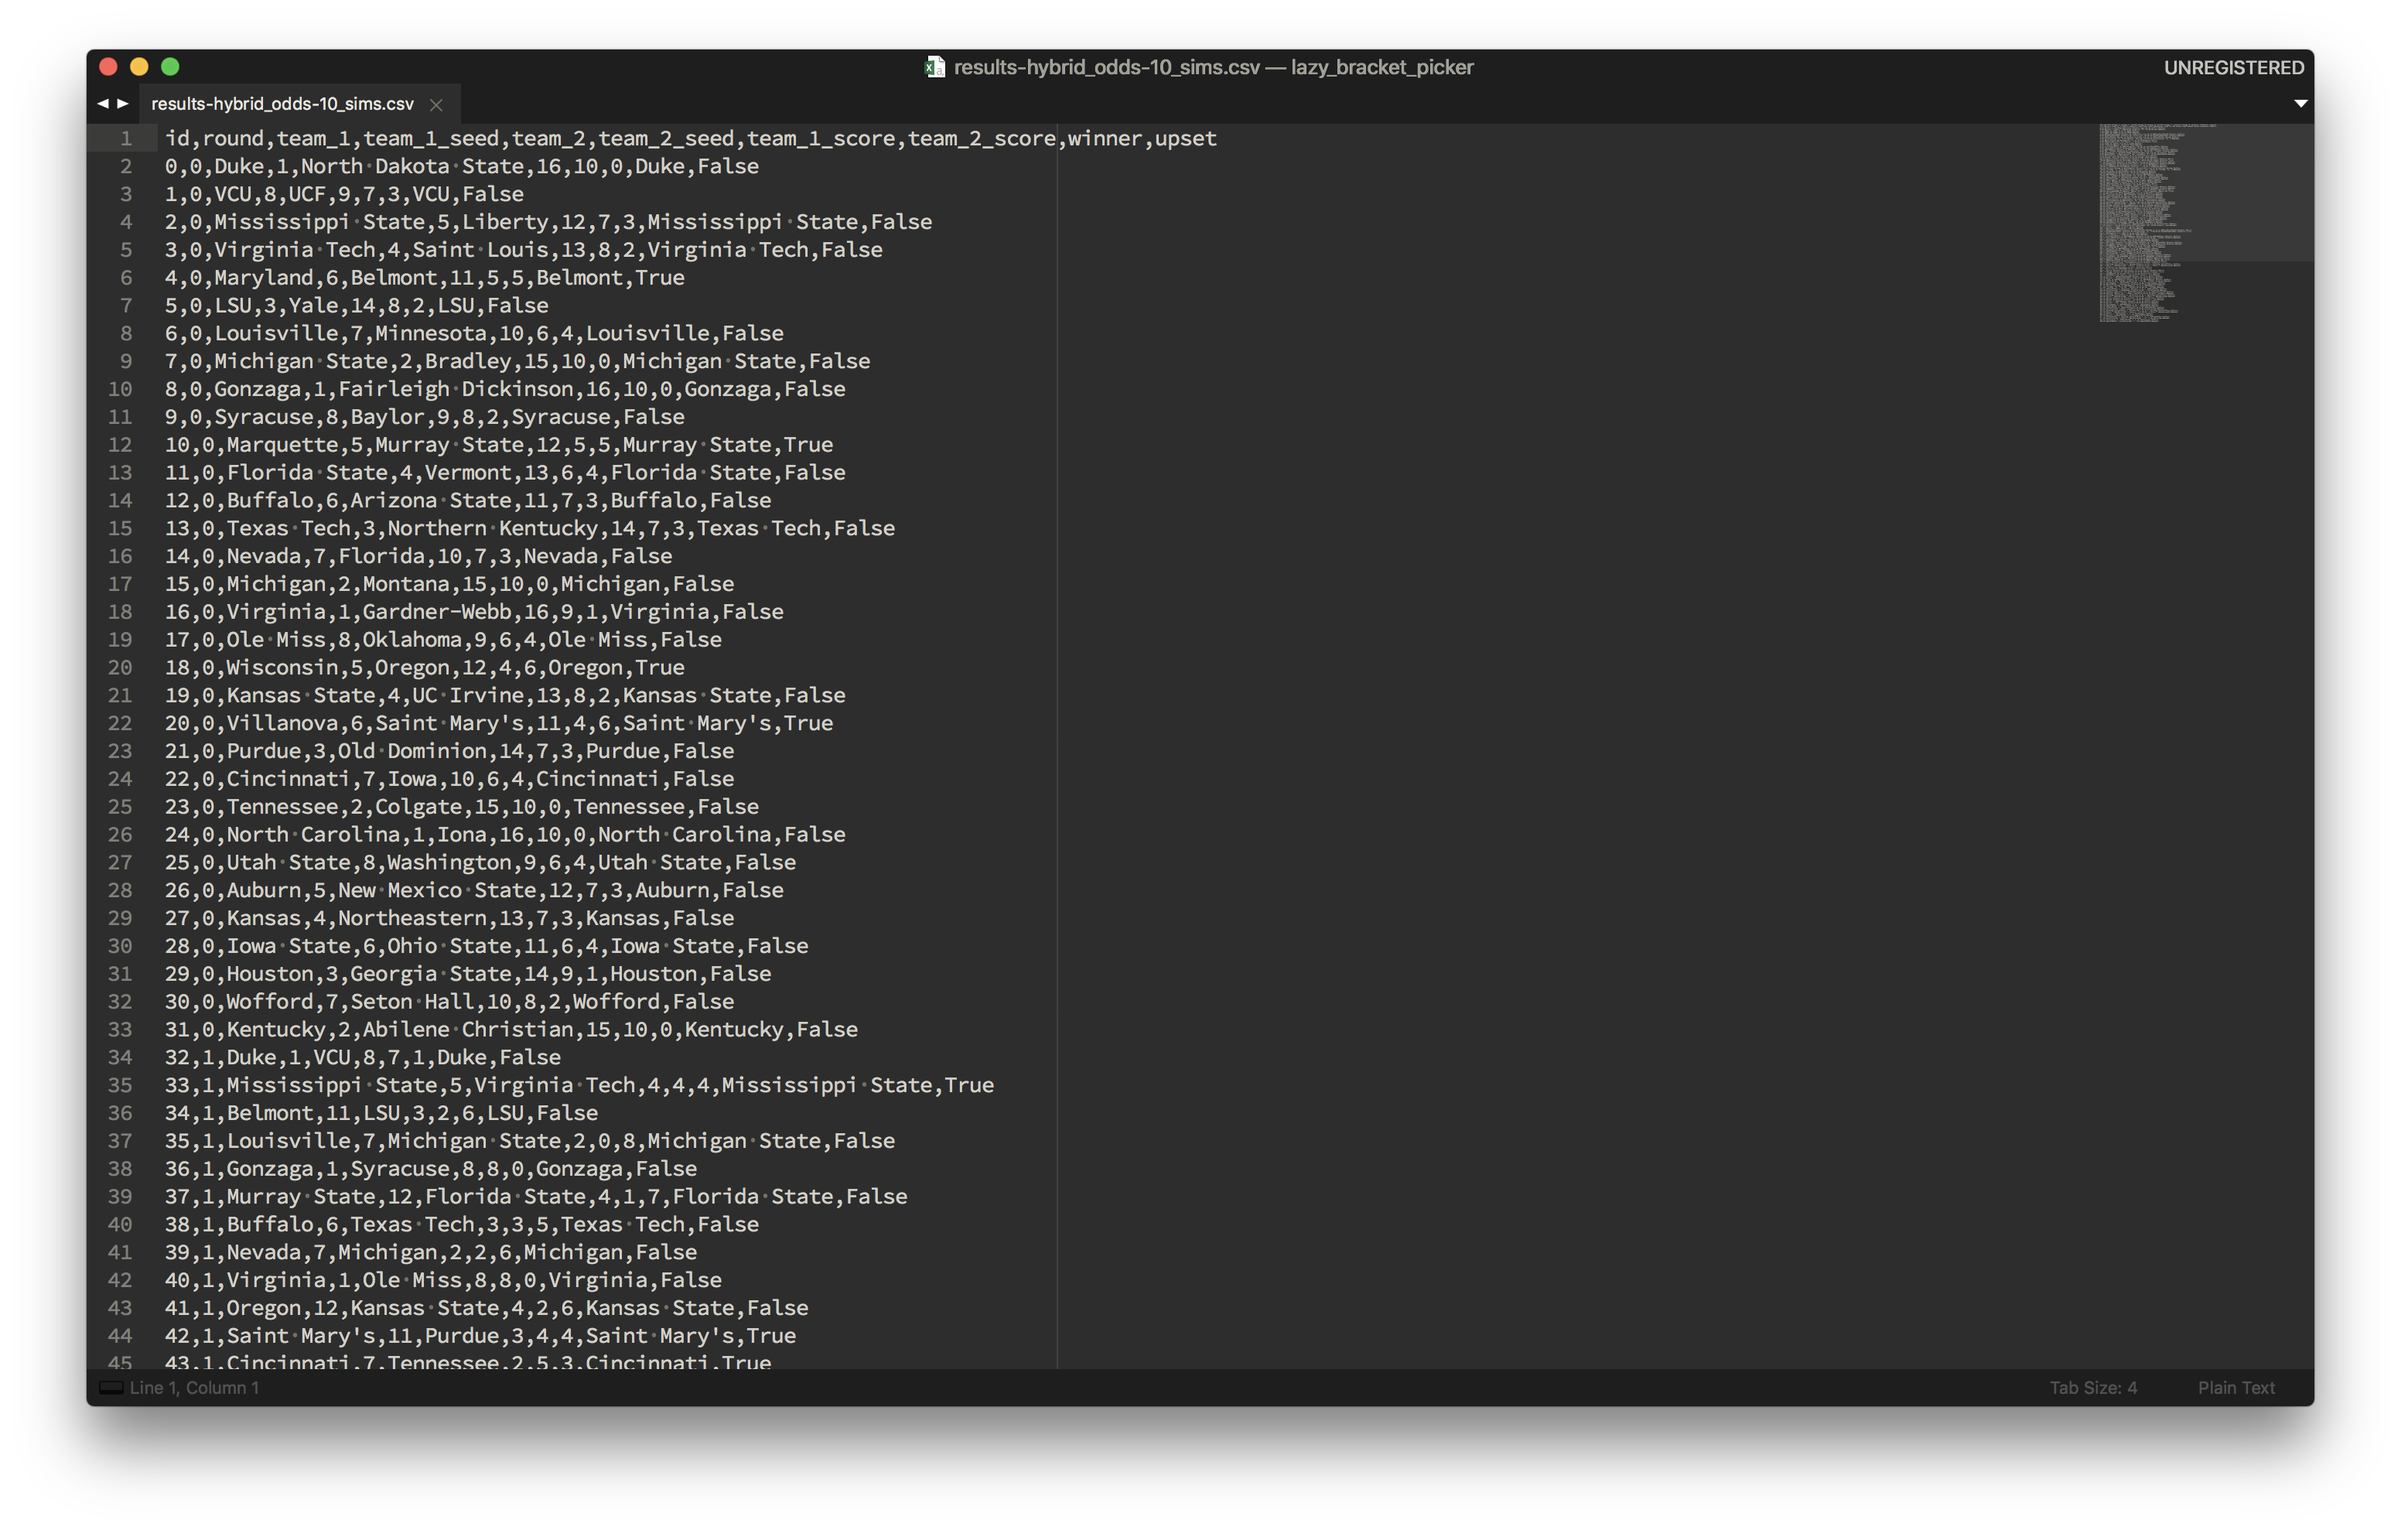
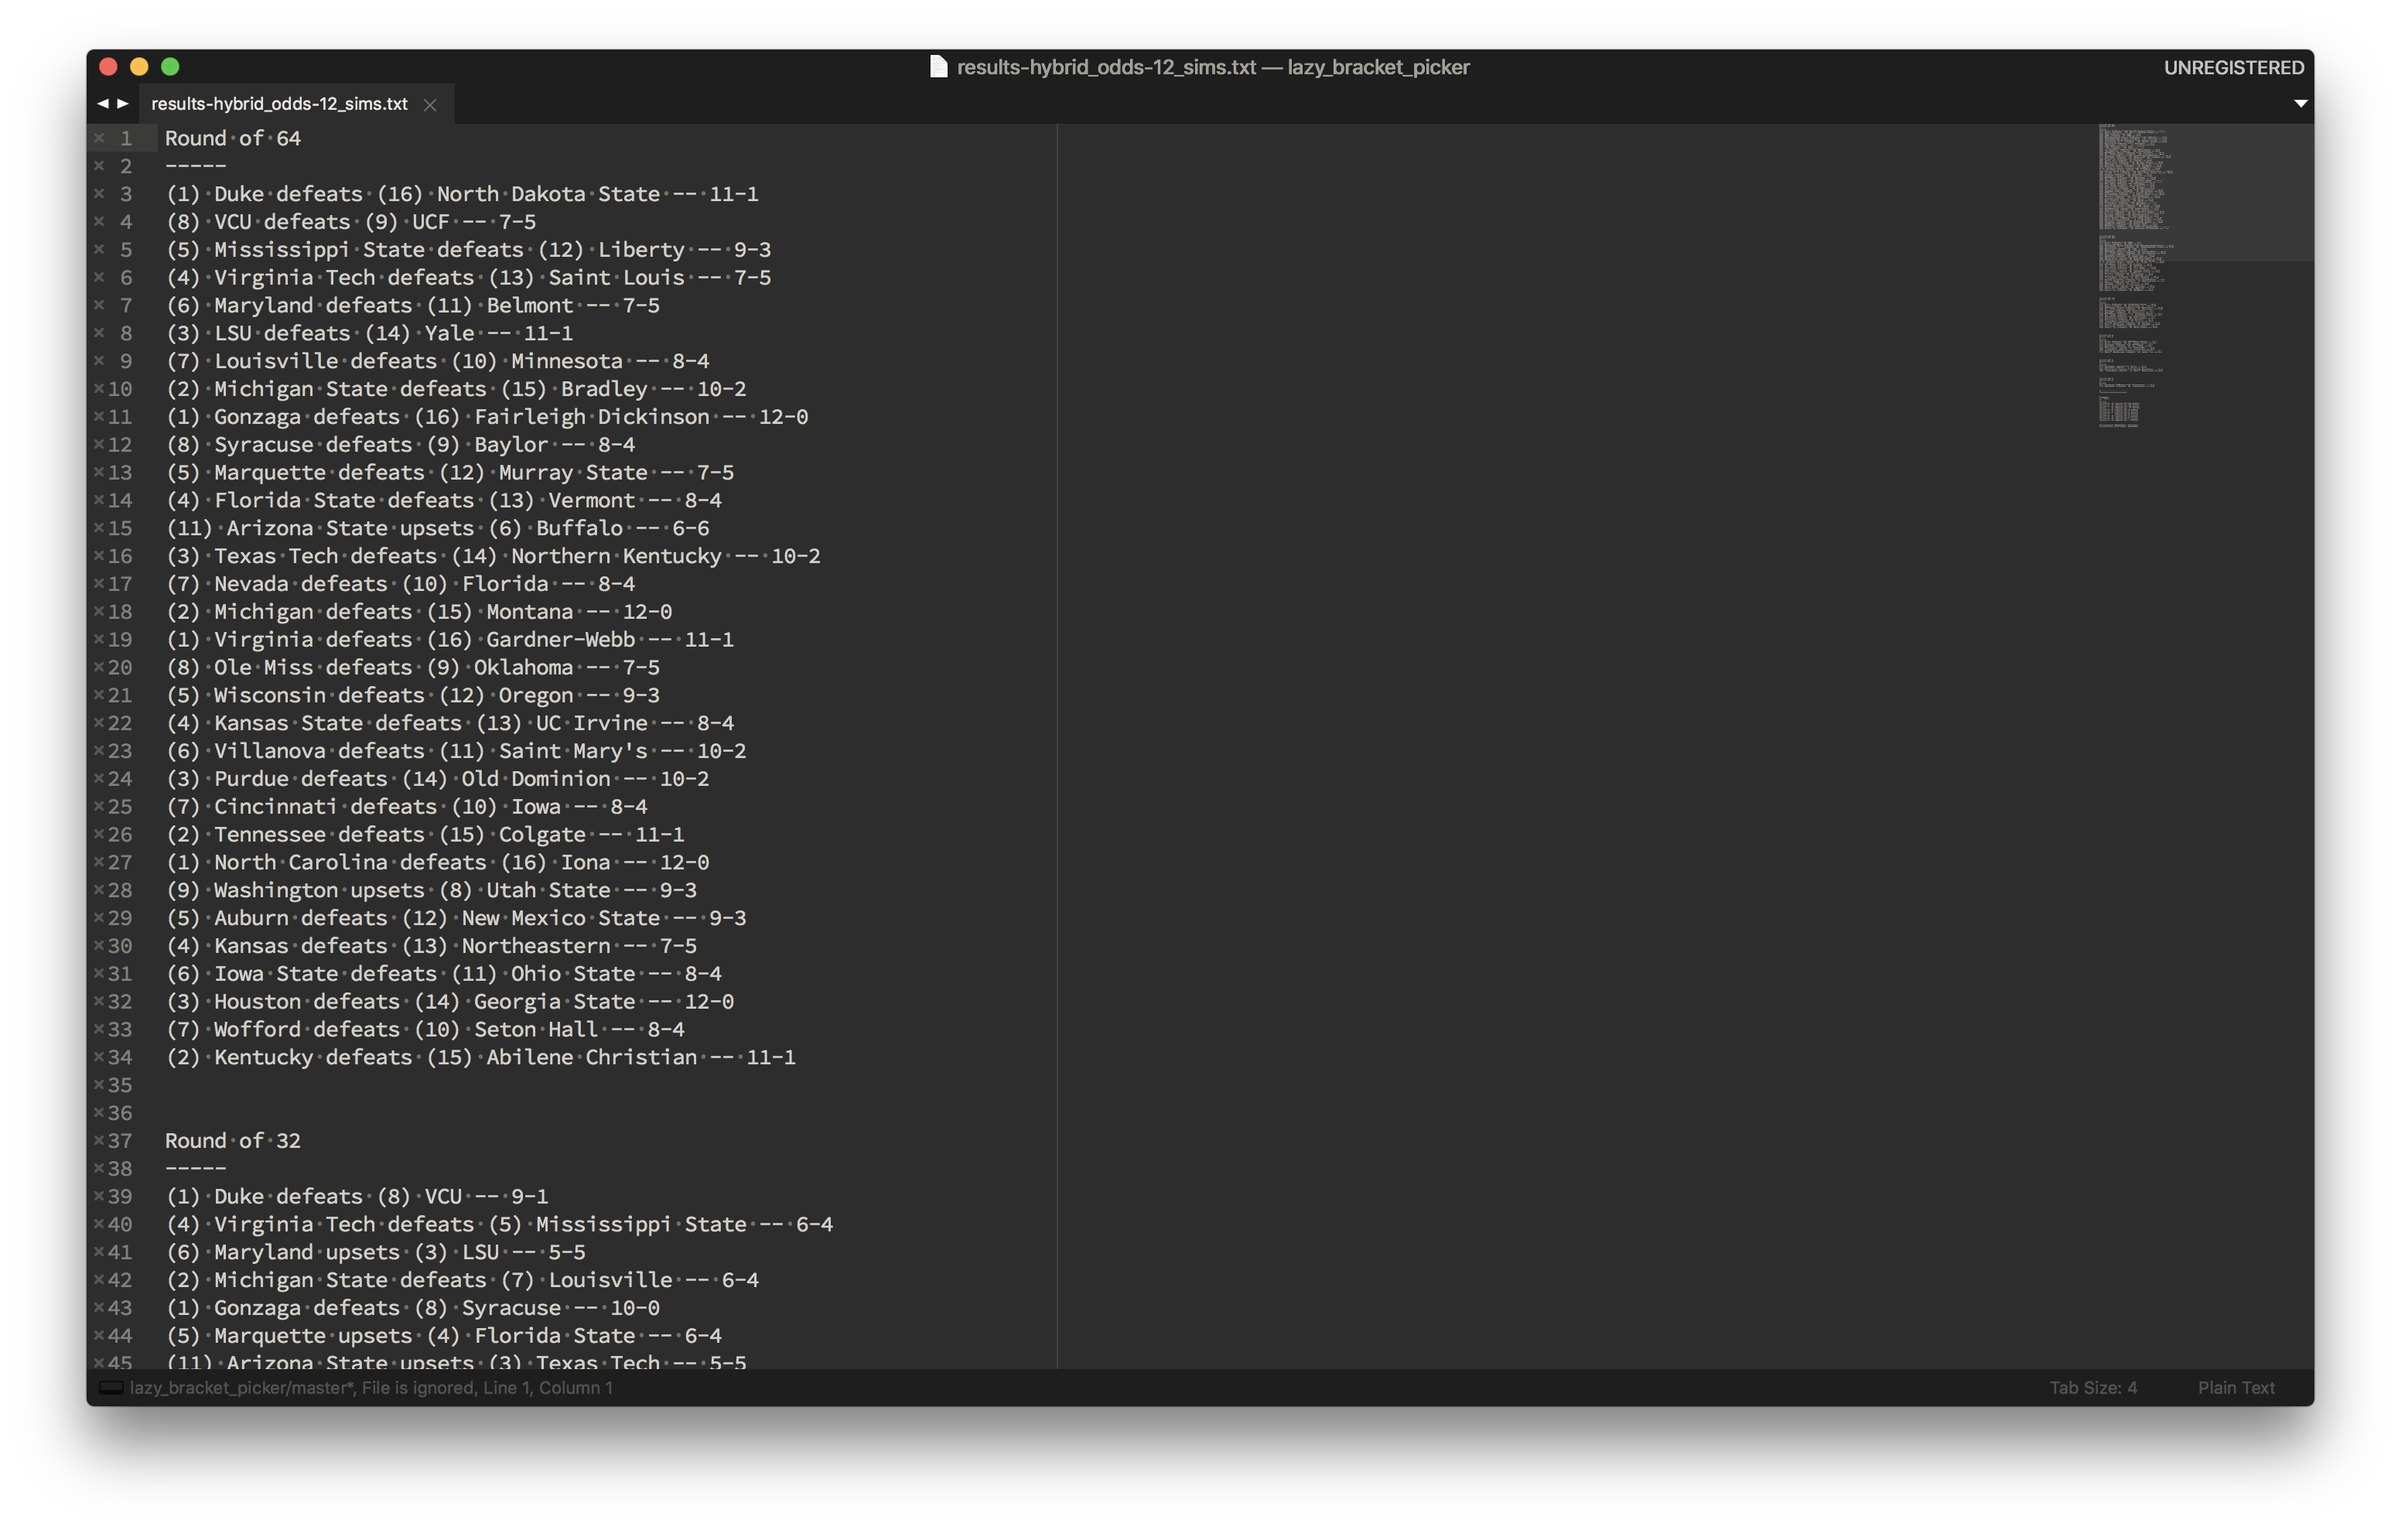
More readable export format

Changed region(s): [[0.0625, 0.0617, 0.375, 0.9252], [0.375, 0.0308, 0.625, 0.0617], [0.875, 0.0617, 0.9062, 0.2776]]

diff --git a/simulate.py b/simulate.py
@@ -102,18 +102,47 @@ def run_simulation(strategy, simulations):
 	if not os.path.exists('exports'):
 		os.mkdir('exports')
 
-	with open('exports/results-' + strategy + '_odds-' + str(simulations) + '_sims.csv', 'w') as output:
-		writer = csv.writer(output, lineterminator='\n')
-		writer.writerow(['id','round','team_1','team_1_seed','team_2','team_2_seed','team_1_score','team_2_score','winner', 'upset'])
+	this_round = -1
+	with open('exports/results-' + strategy + '_odds-' + str(simulations) + '_sims.txt', 'w') as text_file:
 
 		for matchup in matchups:
-			writer.writerow([matchup.id, matchup.rnd, matchup.team_1.name, matchup.team_1.seed, matchup.team_2.name, matchup.team_2.seed, matchup.team_1_score, matchup.team_2_score, matchup.winner.name, matchup.upset])
+
+			if matchup.rnd != this_round:
+				this_round = matchup.rnd
+
+				if this_round > 0:
+					text_file.write('\n\n')
+
+				text_file.write('Round of ' + str(int(64 / math.pow(2, this_round))) + '\n-----\n')
+
+			if matchup.winner.name == matchup.team_1.name:
+
+				if matchup.upset:
+					text_file.write('(' + str(matchup.team_1.seed) + ') ' + matchup.team_1.name + ' upsets (' + str(matchup.team_2.seed) + ') ' + matchup.team_2.name + ' -- ' + str(matchup.team_1_score) + '-' + str(matchup.team_2_score) + '\n')
+
+				else:
+					text_file.write('(' + str(matchup.team_1.seed) + ') ' + matchup.team_1.name + ' defeats (' + str(matchup.team_2.seed) + ') ' + matchup.team_2.name + ' -- ' + str(matchup.team_1_score) + '-' + str(matchup.team_2_score) + '\n')
+
+			else:
+
+				if matchup.upset:
+					text_file.write('(' + str(matchup.team_2.seed) + ') ' + matchup.team_2.name + ' upsets (' + str(matchup.team_1.seed) + ') ' + matchup.team_1.name + ' -- ' + str(matchup.team_2_score) + '-' + str(matchup.team_1_score) + '\n')
+
+				else:
+					text_file.write('(' + str(matchup.team_2.seed) + ') ' + matchup.team_2.name + ' defeats (' + str(matchup.team_1.seed) + ') ' + matchup.team_1.name + ' -- ' + str(matchup.team_2_score) + '-' + str(matchup.team_1_score) + '\n')
 
 			if str(matchup.rnd) in stats:
 				stats[str(matchup.rnd)] = [stats[str(matchup.rnd)][0] + 1, stats[str(matchup.rnd)][1] + 1] if matchup.upset else [stats[str(matchup.rnd)][0] + 1, stats[str(matchup.rnd)][1]]
 
 			else:
 				stats[str(matchup.rnd)] = [1, 1] if matchup.upset else [1, 0]
+
+		text_file.write('\n--------------------\n\nSummary\n-----\n')
+
+		for key in stats:
+			text_file.write('Round ' + key + ': ' + str(stats[key][1]) + ' upsets in ' + str(stats[key][0]) + ' games.\n')
+
+		text_file.write('\nTournament Champion: ' + matchups[len(matchups) - 1].winner.name + '\n')
 
 	print('')
 

diff --git a/README.md b/README.md
@@ -18,7 +18,7 @@ I suggest just slamming around in Terminal until you see an upset distribution t
 
 ![Screenshot of Terminal](assets/terminal.png?raw=true)
 
-When you're ready to fill out your bracket, the full results of each simulation are saved in project's `exports/` directory, following the format `results-[seed|team|hybrid]_odds-[# of simulations]_sims.csv`.
+When you're ready to fill out your bracket, the full results of your simulation are saved in the project's `exports/` directory, following the format `results-[seed|team|hybrid]_odds-[# of simulations]_sims.txt`.
 
 ![Screenshot of Sublime](assets/sublime.png?raw=true)
 
